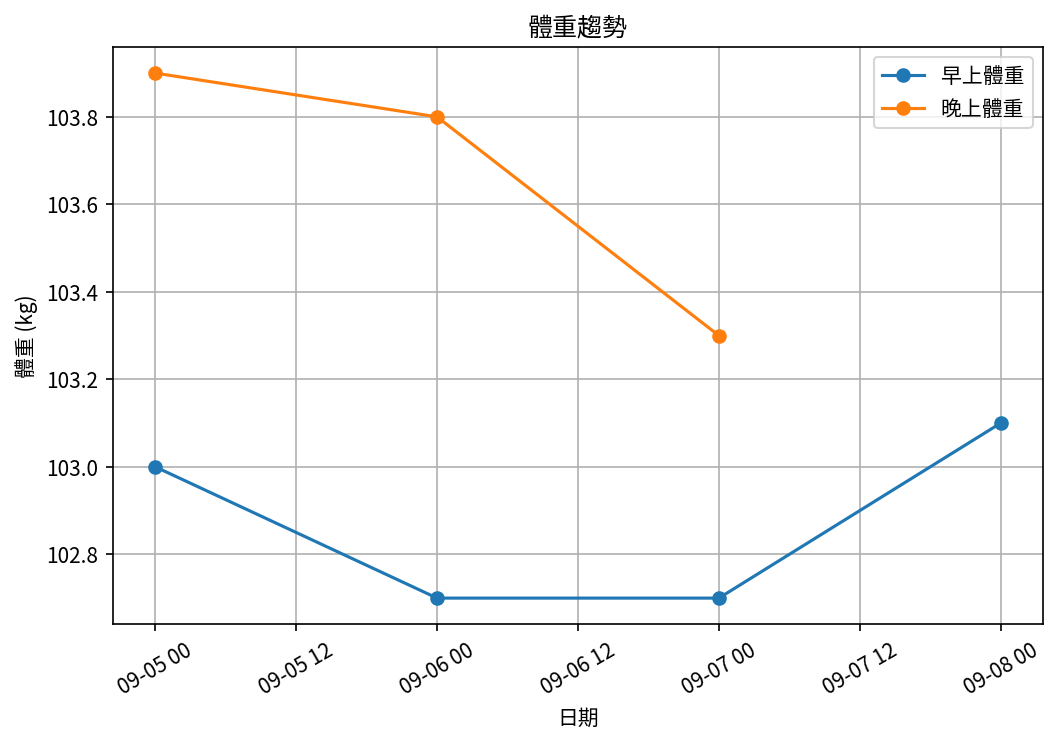
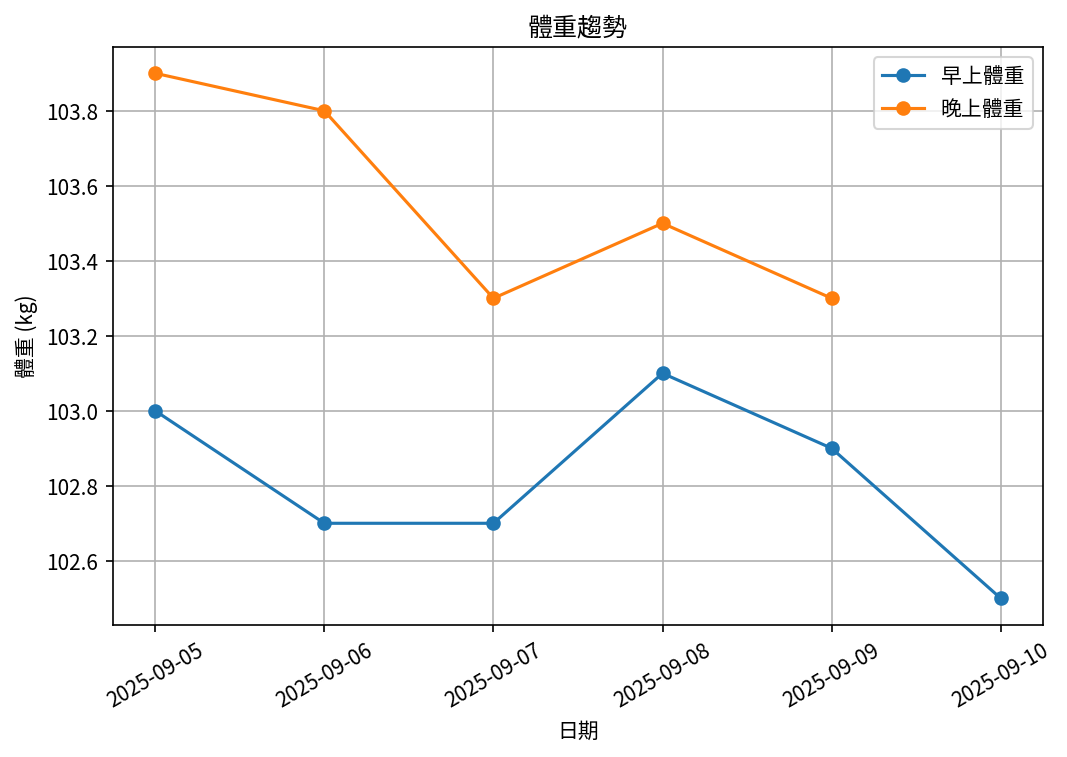
Update values

diff --git a/reports/summary/overall_summary_report.md b/reports/summary/overall_summary_report.md
@@ -1,7 +1,7 @@
 # 📊 減重總結報告
 
-**總期間：2025/08/15 ～ 2025/09/08**  
-**追蹤期間：25 天 (4 週)**  
+**總期間：2025/08/15 ～ 2025/09/10**  
+**追蹤期間：27 天 (4 週)**  
 
 ---
 
@@ -13,13 +13,13 @@
 |:-----------|:------------|:------------|:-----------|:-----------|
 | 08/15 (週五) | 109.0       | 109.8       | nan        | 29.0       |
 | ...        | ...         | ...         | ...        | ...        |
-| 09/02 (週二) | 103.9       | 103.9       | 29.7       | 27.7       |
-| 09/03 (週三) | 103.4       | 103.4       | 29.9       | 28.4       |
 | 09/04 (週四) | 103.0       | 103.8       | 29.6       | 29.5       |
 | 09/05 (週五) | 103.0       | 103.9       | 30.0       | 28.5       |
 | 09/06 (週六) | 102.7       | 103.8       | 30.0       | 29.1       |
 | 09/07 (週日) | 102.7       | 103.3       | 29.7       | 27.4       |
-| 09/08 (週一) | 103.1       | nan         | 30.1       | nan        |
+| 09/08 (週一) | 103.1       | 103.5       | 30.1       | 27.1       |
+| 09/09 (週二) | 102.9       | 103.3       | 30.4       | 29.5       |
+| 09/10 (週三) | 102.5       | nan         | 30.0       | nan        |
 
 ---
 
@@ -32,24 +32,23 @@
 
 ## 📌 總體統計
 
-- **體重（AM）**：109.0 → 103.1 kg  (**-5.9 kg**), 總平均 105.3 kg  
-- **體重（PM）**：109.8 → 103.3 kg  (**-6.5 kg**), 總平均 105.8 kg  
-- **體重（AM+PM 平均）**：105.6 kg  
+- **體重（AM）**：109.0 → 102.5 kg  (**-6.5 kg**), 總平均 105.1 kg  
+- **體重（PM）**：109.8 → 103.3 kg  (**-6.5 kg**), 總平均 105.6 kg  
+- **體重（AM+PM 平均）**：105.4 kg  
 
-- **體脂（AM）**：30.3% → 30.1%  (**-0.2%**), 總平均 30.2%  
-- **體脂（PM）**：29.0% → 27.4%  (**-1.6%**), 總平均 28.3%  
+- **體脂（AM）**：30.3% → 30.0%  (**-0.3%**), 總平均 30.2%  
+- **體脂（PM）**：29.0% → 29.5%  (**0.5%**), 總平均 28.3%  
 - **體脂（AM+PM 平均）**：29.3%  
 
-- **追蹤天數**：25 天  
-- 平均每週體重變化（AM）：-1.5 kg/週  
+- **追蹤天數**：27 天  
+- 平均每週體重變化（AM）：-1.6 kg/週  
 - 平均每週體重變化（PM）：-1.6 kg/週
 
 ---
 
 ## 🎯 重點成果
 
-✅ **體重減少**：在 25 天內減重 5.9 kg（早上測量）  
-✅ **體脂下降**：體脂率降低 1.6%（晚上測量）  
+✅ **體重減少**：在 27 天內減重 6.5 kg（早上測量）  
 
 ## ✅ 持續建議
 - 維持 **高蛋白 (每公斤 1.6–2.0 g)** 與 **每週 2–3 次阻力訓練**  

diff --git a/reports/2025-CW04/2025-CW04_weekly_report.md b/reports/2025-CW04/2025-CW04_weekly_report.md
@@ -11,7 +11,9 @@
 | 09/05 (週五) |       103   |       103.9 |       30   |       28.5 |
 | 09/06 (週六) |       102.7 |       103.8 |       30   |       29.1 |
 | 09/07 (週日) |       102.7 |       103.3 |       29.7 |       27.4 |
-| 09/08 (週一) |       103.1 |       nan   |       30.1 |      nan   |
+| 09/08 (週一) |       103.1 |       103.5 |       30.1 |       27.1 |
+| 09/09 (週二) |       102.9 |       103.3 |       30.4 |       29.5 |
+| 09/10 (週三) |       102.5 |       nan   |       30   |      nan   |
 
 ---
 
@@ -24,15 +26,15 @@
 
 ## 📌 本週統計
 
-- 體重（AM）：103.0 → 103.1 kg  (**0.1 kg**), 週平均 102.9 kg  
-- 體重（PM）：103.9 → 103.3 kg  (**-0.6 kg**), 週平均 103.7 kg  
-- 體重（AM+PM 平均）：103.3 kg  
+- 體重（AM）：103.0 → 102.5 kg  (**-0.5 kg**), 週平均 102.8 kg  
+- 體重（PM）：103.9 → 103.3 kg  (**-0.6 kg**), 週平均 103.6 kg  
+- 體重（AM+PM 平均）：103.2 kg  
 
-- 體脂（AM）：30.0% → 30.1%  (**0.1%**), 週平均 30.0%  
-- 體脂（PM）：28.5% → 27.4%  (**-1.1%**), 週平均 28.3%  
-- 體脂（AM+PM 平均）：29.1%  
+- 體脂（AM）：30.0% → 30.0%  (**0.0%**), 週平均 30.0%  
+- 體脂（PM）：28.5% → 29.5%  (**1.0%**), 週平均 28.3%  
+- 體脂（AM+PM 平均）：29.2%  
 
-- 紀錄天數：4 天
+- 紀錄天數：6 天
 
 ---
 
